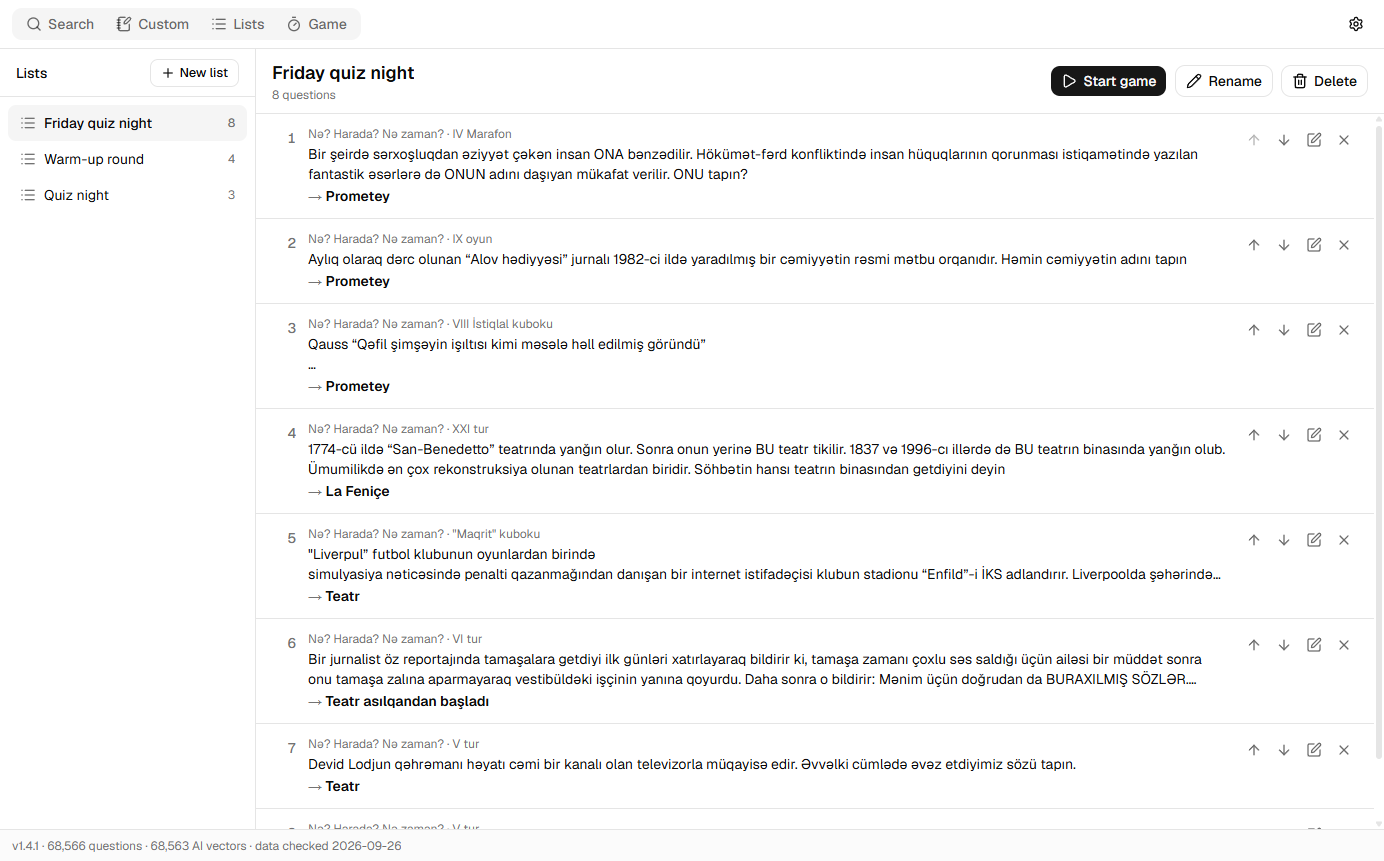
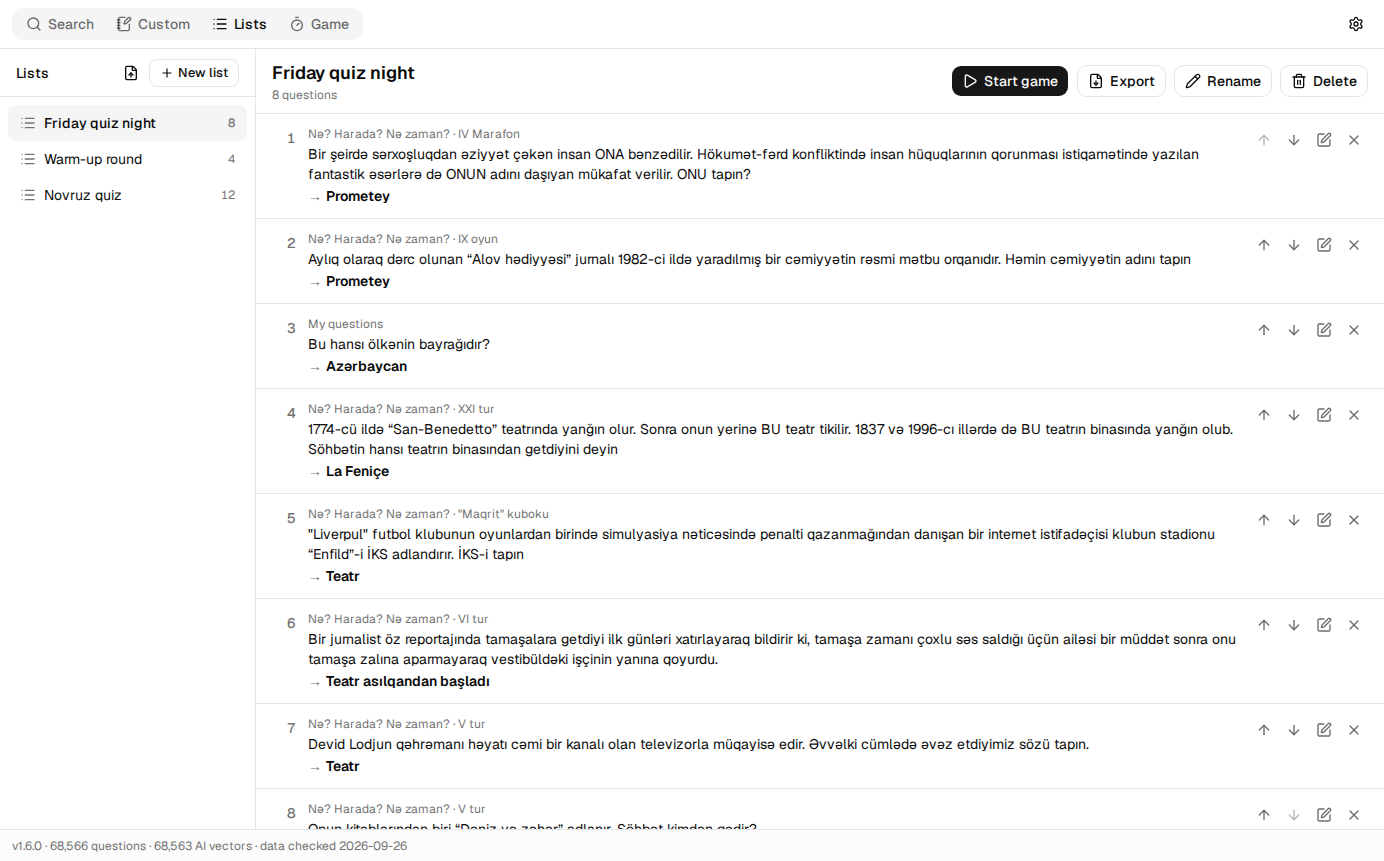
README: fresh white-theme screenshots of party mode, custom questions, lists and game setup
- Party screenshots now show the live answers, reactions, answer times, the chat-style answer bar and
  the round podium on the host, TV and player screens; a new row shows the round results.
- New lobby screenshot with the all-time leaderboard; Custom and Lists show Import and Export.
- The party header's TV-screen buttons show icons only below very wide windows, so the header fits
  on one line with Message and Reactions.

Claude-Session: https://claude.ai/code/session_01F7jT2ryLDqL6D8aMMuzX3F

diff --git a/app/ui/Party.jsx b/app/ui/Party.jsx
@@ -688,9 +688,9 @@ export default function PartyScreen({ party, isVisible, lobbySettings, onBackToL
             {isInRound && <Button variant="outline" size="sm" onClick={() => api.partyFinishRound()}><FlagIcon />End round</Button>}
             <ToggleGroup type="single" variant="outline" size="sm" spacing={0} value={party.screen} aria-label="What the TV shows"
               onValueChange={screen => screen && api.partySetScreen(screen)}>
-              <ToggleGroupItem value="game" className="px-2.5 aria-checked:bg-muted" title="The TV follows the game"><GamepadIcon />Game</ToggleGroupItem>
-              <ToggleGroupItem value="leaderboard" className="px-2.5 aria-checked:bg-muted" title="Show the leaderboard on the TV"><TrophyIcon />Leaderboard</ToggleGroupItem>
-              <ToggleGroupItem value="join" className="px-2.5 aria-checked:bg-muted" title="Show the join QR code on the TV"><QrCodeIcon />Join code</ToggleGroupItem>
+              <ToggleGroupItem value="game" className="px-2.5 aria-checked:bg-muted" title="The TV follows the game" aria-label="TV shows the game"><GamepadIcon /><span className="hidden 2xl:inline">Game</span></ToggleGroupItem>
+              <ToggleGroupItem value="leaderboard" className="px-2.5 aria-checked:bg-muted" title="Show the leaderboard on the TV" aria-label="TV shows the leaderboard"><TrophyIcon /><span className="hidden 2xl:inline">Leaderboard</span></ToggleGroupItem>
+              <ToggleGroupItem value="join" className="px-2.5 aria-checked:bg-muted" title="Show the join QR code on the TV" aria-label="TV shows the join code"><QrCodeIcon /><span className="hidden 2xl:inline">Join code</span></ToggleGroupItem>
             </ToggleGroup>
             <TvMenu />
             <Button variant="outline" size="sm" onClick={() => setIsConfirmingClose(true)}><DoorClosedIcon />Close party</Button>

diff --git a/README.md b/README.md
@@ -14,15 +14,17 @@ game from the app. Bring your own questions or use the bundled question bank.
   the address in a browser, with nothing to install. The TV shows each question with
   its pictures, a countdown with sound for the last 10 seconds, the answer with everyone's result, and the
   leaderboard. Typed answers are checked by a local AI model, or marked by the host when AI search is off,
-  and the host can overrule any verdict, or mark answers while the question is still running. Players can skip
-  a wait together, rename themselves and reconnect without losing their place, and an all-time leaderboard adds up
-  every round.
+  and the host can overrule any verdict, or mark answers while the question is still running. Players answer
+  in a chat-style bar, send reactions that show on the TV and on everyone's screen, skip a wait together, rename
+  themselves and reconnect without losing their place. Answer times break ties, the round ends with a podium, and
+  an all-time leaderboard adds up every round. The host can send messages to all players and sees who leaves the
+  game screen during a question.
 - **Any TV**: a TV window on a second screen, Miracast, or the web browser of a Samsung Smart TV.
 - **Host controls**: points for right and wrong answers, pause, autoplay, answers shown after each question or
   all at the end of the round, several rounds with or without keeping the scores, and no question shown twice
   in one party.
 - **Your own questions**: write them on the *Custom* tab, add a handout picture and an answer picture,
-  collect them in lists and play a list in order.
+  collect them in lists and play a list in order. Import and export your questions or a list, pictures included.
 - **Game helper and solo play**: a timer for the host, or play alone and mark your answers yourself or let the
   AI check them.
 - **Question bank**: search by keyword or by meaning, ignoring case, diacritics and small typos, and edit
@@ -34,6 +36,7 @@ game from the app. Bring your own questions or use the bundled question bank.
 |---|---|---|
 | ![Host console](docs/screenshots/party-host.png) | ![TV question](docs/screenshots/tv-question.png) | ![Phone question](docs/screenshots/phone-question.png) |
 | ![Host reveal](docs/screenshots/party-reveal.png) | ![TV reveal](docs/screenshots/tv-reveal.png) | ![Phone reveal](docs/screenshots/phone-reveal.png) |
+| ![Host round results](docs/screenshots/party-results.png) | ![TV round results](docs/screenshots/tv-results.png) | ![Phone round results](docs/screenshots/phone-results.png) |
 
 1. Optional: open **Settings** and turn on AI search to check the answers automatically. Without it, you mark
    each answer.
@@ -52,8 +55,8 @@ the TV never receive it early.
 |---|---|
 | ![Search](docs/screenshots/search.png) | ![Custom questions](docs/screenshots/custom.png) |
 | ![Lists](docs/screenshots/lists.png) | ![Game setup](docs/screenshots/game-setup.png) |
-| ![TV lobby](docs/screenshots/tv-lobby.png) | ![Settings](docs/screenshots/settings.png) |
-| ![Night mode](docs/screenshots/search-dark.png) | |
+| ![Party lobby with the all-time leaderboard](docs/screenshots/party-lobby.png) | ![TV lobby](docs/screenshots/tv-lobby.png) |
+| ![Settings](docs/screenshots/settings.png) | ![Night mode](docs/screenshots/search-dark.png) |
 
 ## Install
 
